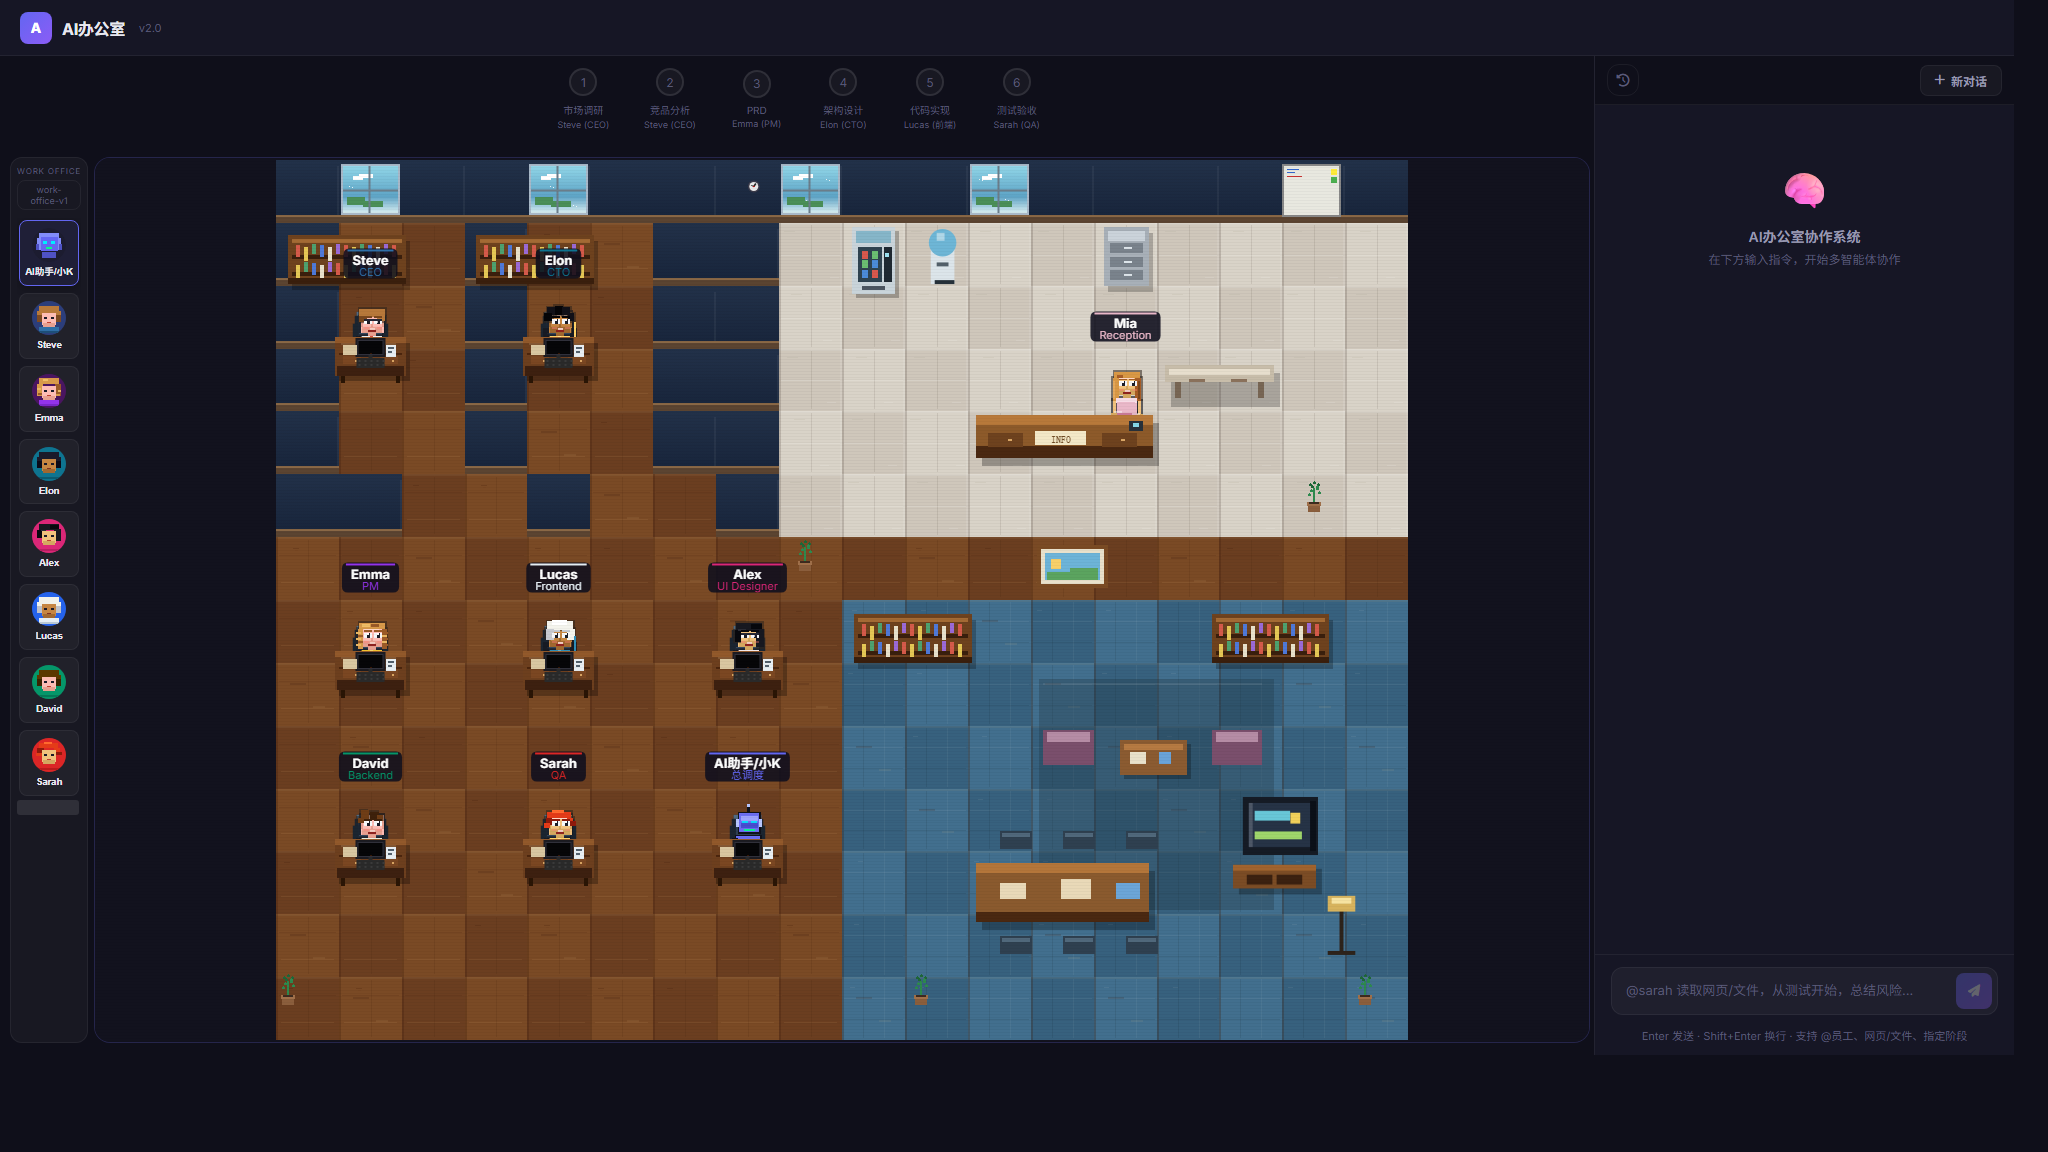
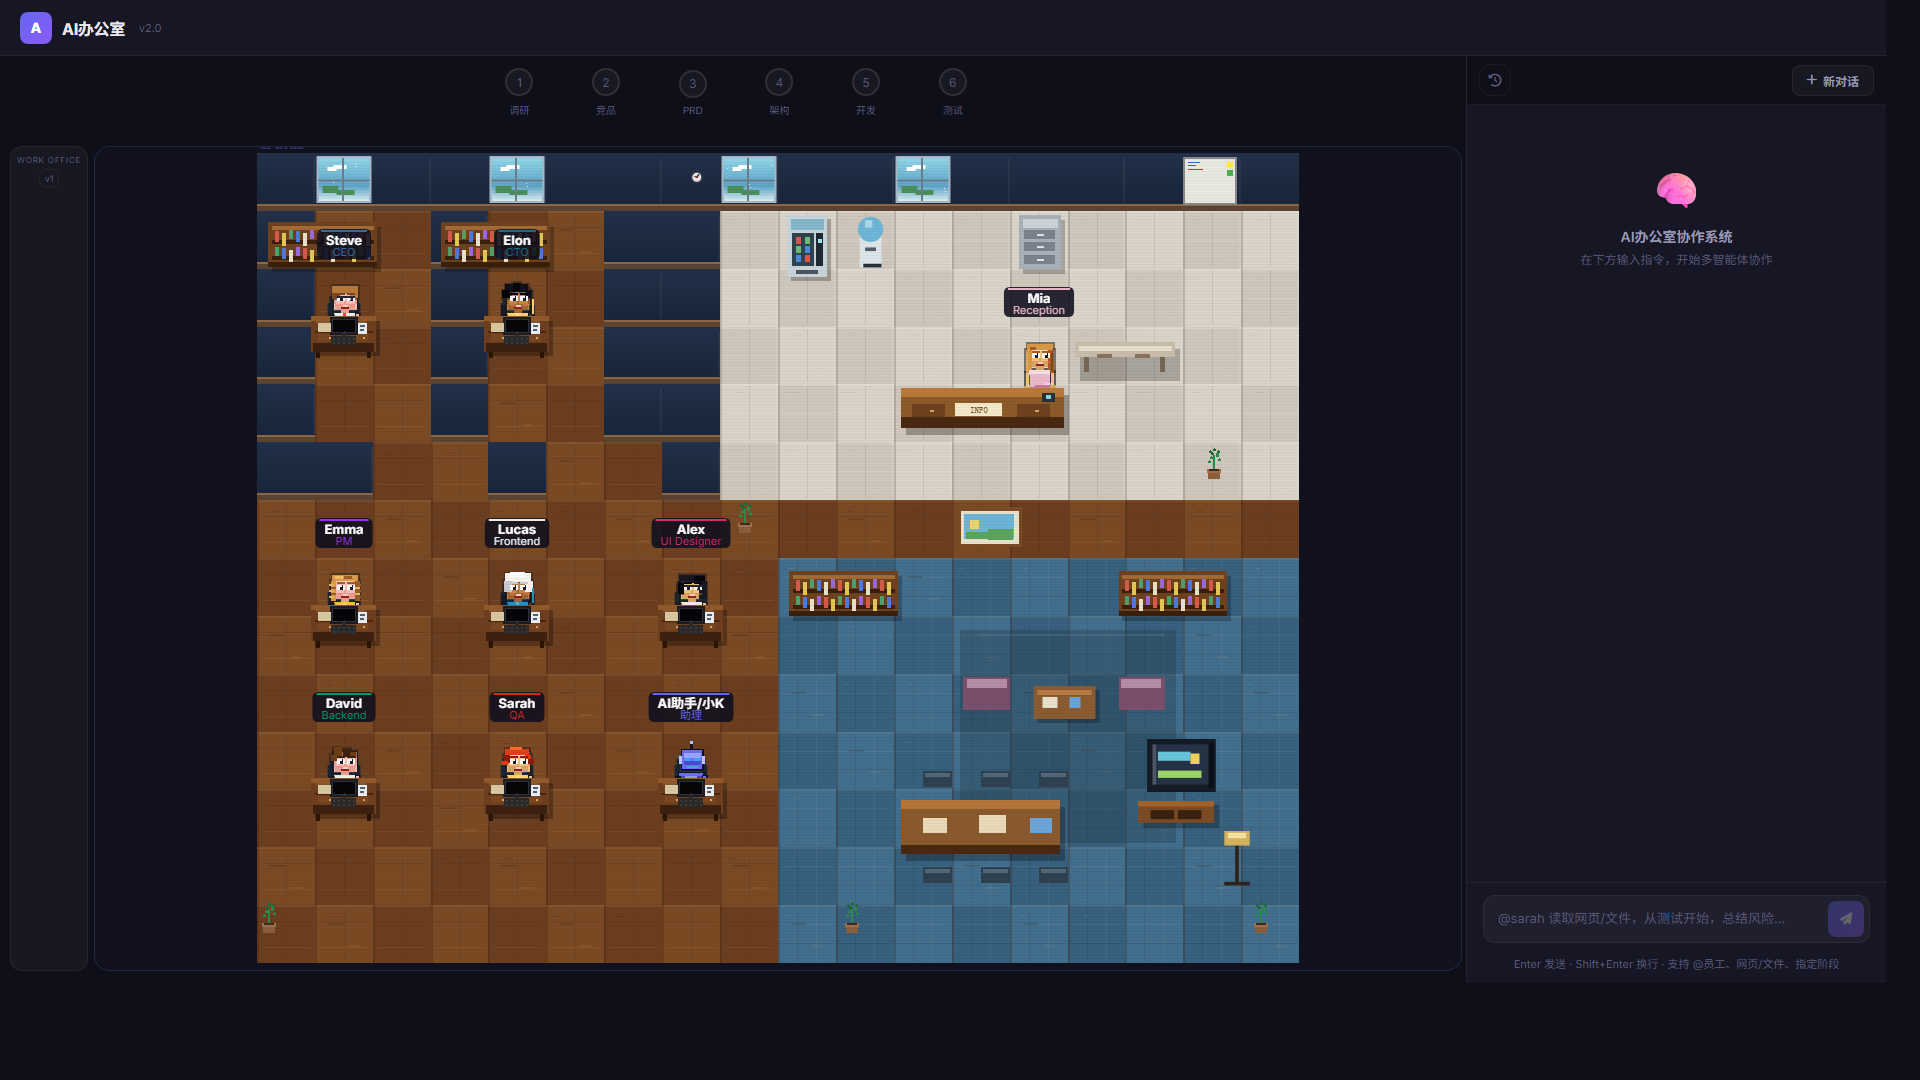
Rename coordinator title to assistant

diff --git a/frontend/pixel-office.js b/frontend/pixel-office.js
@@ -386,7 +386,7 @@
     { id:'qa_01', name:'Sarah', title:'QA', robot:false, seatCol:4, seatRow:10,
       pal:{ H:'#CC3300',h:'#992200', S:'#F1C27D',s:'#D4A860', W:'#fff',E:'#1a1a2a', M:'#c04030',N:'#D4A860',
             B:'#DC2626',b:'#B91C1C', A:'#F1C27D',a:'#D4A860', L:'#1a1a2a', P:'#2a2a3e',p:'#1e1e2e', K:'#333',k:'#222', O:'#DC2626' }},
-    { id:'aiky_main',name:'AI助手/小K', title:'总调度', robot:true, seatCol:7, seatRow:10,
+    { id:'aiky_main',name:'AI助手/小K', title:'助理', robot:true, seatCol:7, seatRow:10,
       pal:{ H:'#6366f1',h:'#4f52c4', S:'#6366f1',s:'#4f52c4', W:'#1a1a2a',E:'#00eeff', M:'#00ff88',N:'#4f52c4',
             B:'#6366f1',b:'#4f52c4', A:'#6366f1',a:'#4f52c4', L:'#3a3a8a', P:'#4040aa',p:'#3030aa', K:'#333',k:'#222', O:'#818cf8' }},
     { id:'front_01', name:'Mia', title:'Reception', robot:false, npc:true, seatCol:13, seatRow:3,

diff --git a/AGENTS.md b/AGENTS.md
@@ -18,7 +18,7 @@ PE 工作流标准文件随仓库发布在：
 
 | 员工 | ID | 职位 | 专长领域 |
 |------|-----|------|---------|
-| AI助手/小K | aiky_main | 办公室总调度 | 任务调度、规格守门、质量裁判、知识沉淀、员工进化审批 |
+| AI助手/小K | aiky_main | 办公室助理 | 任务调度、规格守门、质量裁判、知识沉淀、员工进化审批 |
 | Steve | ceo_01 | CEO | 市场趋势、商业模式、战略决策、市场分析、竞品分析 |
 | Elon | cto_01 | CTO | 技术架构、技术选型、性能优化、安全、数据库、API |
 